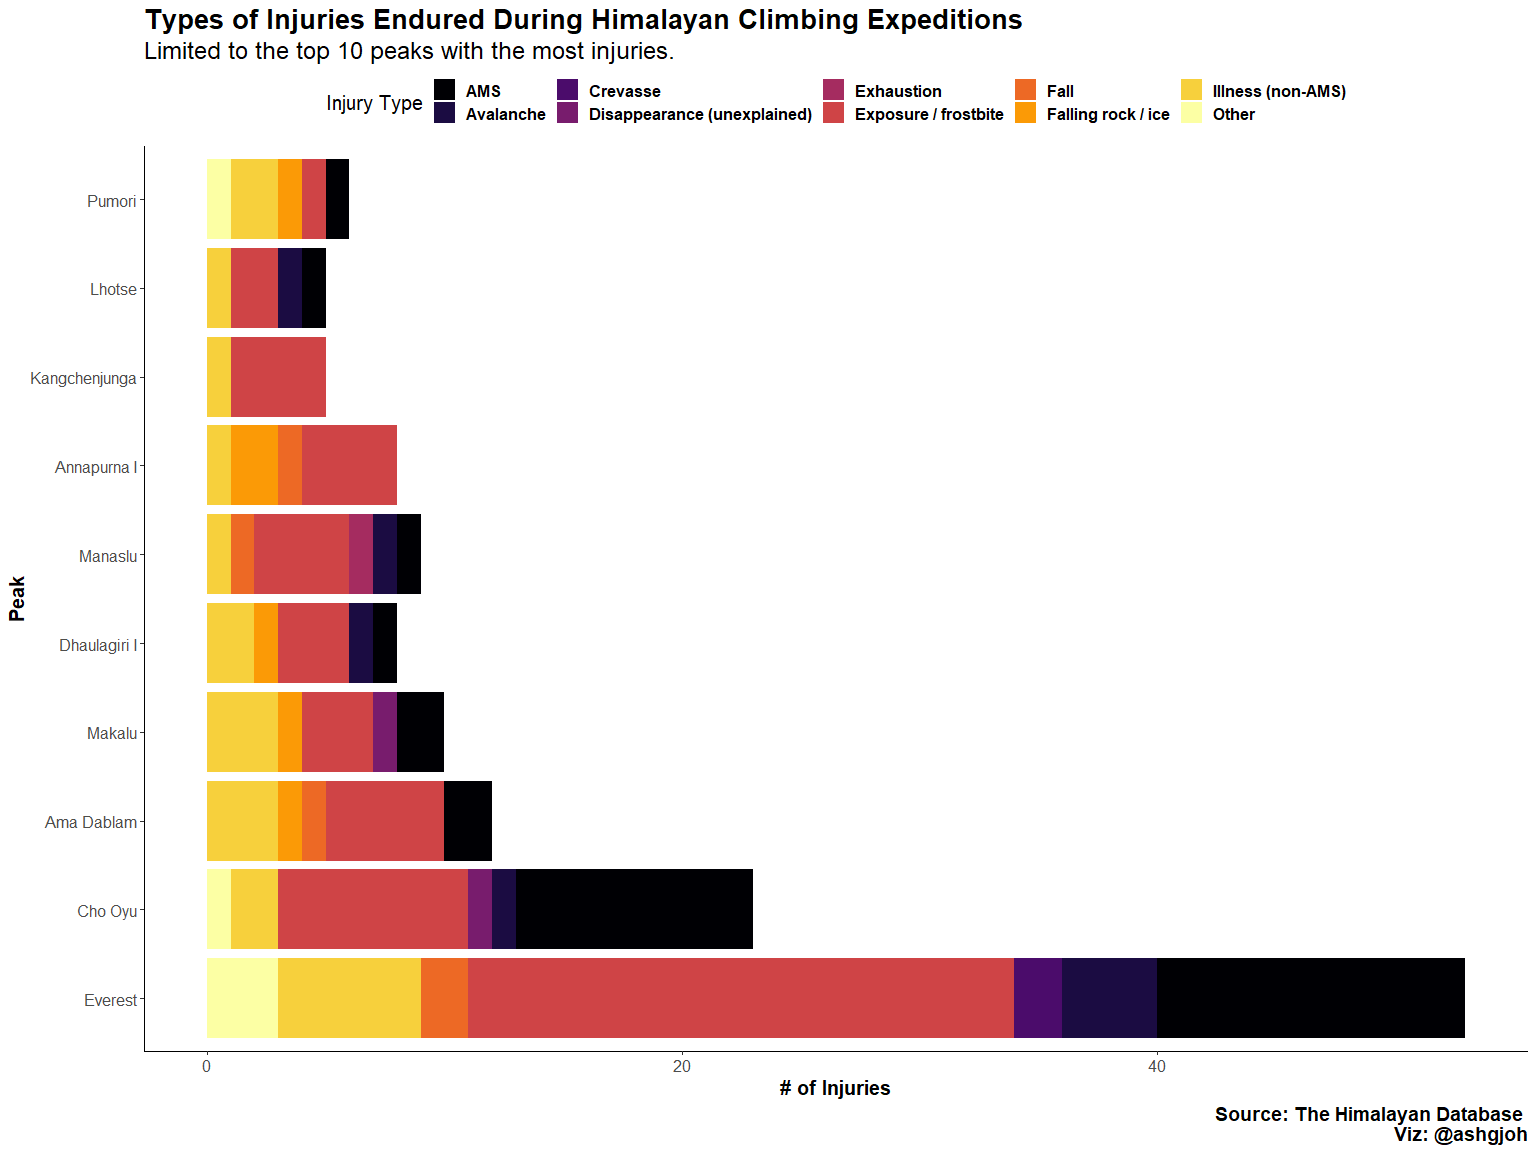
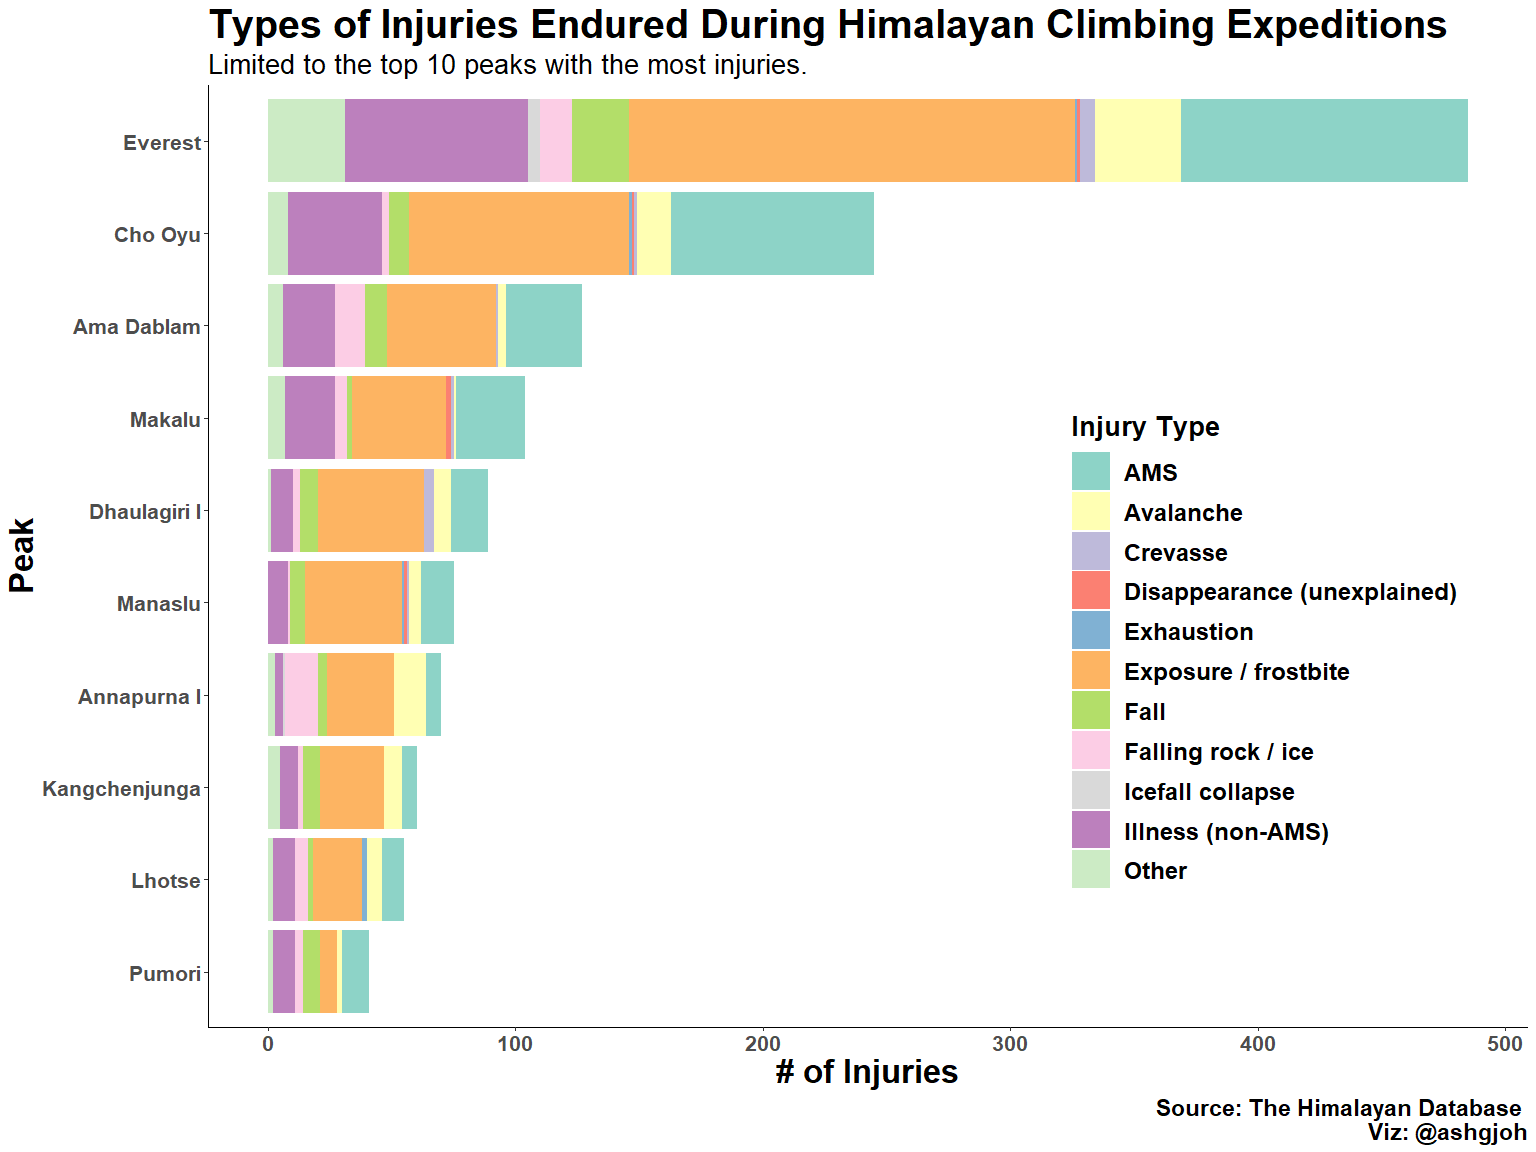
Finalized figure for tidy tuesday submission.

diff --git a/2020_Week39/200922_tidytuesday.md b/2020_Week39/200922_tidytuesday.md
@@ -8,7 +8,7 @@ Ashlyn Johnson
 ``` r
 library(tidyverse)
 library(tidytuesdayR)
-library(viridis)
+library(RColorBrewer)
 ```
 
 ## Session Information
@@ -24,79 +24,72 @@ tuesday](https://github.com/rfordatascience/tidytuesday/blob/master/data/2020/20
 
 ``` r
 tuesdata <- tidytuesdayR::tt_load(2020, week = 39)
+## --- Compiling #TidyTuesday Information for 2020-09-22 ----
+## --- There are 3 files available ---
+## --- Starting Download ---
+## 
+##  Downloading file 1 of 3: `peaks.csv`
+##  Downloading file 2 of 3: `members.csv`
+##  Downloading file 3 of 3: `expeditions.csv`
+## --- Download complete ---
+members <- tuesdata$members
 ```
-
-    ## --- Compiling #TidyTuesday Information for 2020-09-22 ----
-
-    ## --- There are 3 files available ---
-
-    ## --- Starting Download ---
-
-    ## 
-    ##  Downloading file 1 of 3: `peaks.csv`
-    ##  Downloading file 2 of 3: `members.csv`
-    ##  Downloading file 3 of 3: `expeditions.csv`
-
-    ## --- Download complete ---
-
-``` r
-peaks <- tuesdata$peaks
-members <-  tuesdata$members
-expeditions <- tuesdata$expeditions
-```
-
-## Exploration of Data
 
 There are so many questions I can ask from the dataset. And several have
 already been looked at in [Alex Cookson’s blog
 post](https://www.alexcookson.com/post/analyzing-himalayan-peaks-first-ascents/).
 
-### What is the primary cause of injury in climbers?
-
-Note: there’s an issue here. The number of injuries showing up on the
-plot is far less than what shows up when I use the count function.
-Unclear what is going on.
+### What are the most common injuries in climbers?
 
 ``` r
-# creating a vector with peak names that is in descending order by the number of injuries at each peak
+# creating a dataframe with peak names that is sorted by the number of injuries at each peak
 
-members_injury_count <- count(members %>% 
-        filter(injured == TRUE), 
-      vars = peak_name) %>% 
-  arrange(desc(n))
+members_injury_count <- count(members %>%
+  filter(injured == TRUE),
+vars = peak_name
+) %>%
+  arrange(n)
 
-# creating a plot that shows the types of injuries at the top 10 peaks for injuries 
+# creating a dataframe that shows the types of injuries at the top 10 peaks for injuries
 
-ggplot(members %>% 
-         filter(injured == TRUE) %>%  # filter for injuries 
-         mutate(peak_name = factor(peak_name, levels = members_injury_count$vars, ordered = TRUE)) %>%  # mutate peak_name into a factor
-         filter(peak_name == members_injury_count$vars[1:10])) + # filter for only entries that contain the one of the top 10 injury peak names
-  geom_bar(aes(x = peak_name, fill = injury_type)) + # will fill the bars in by the type of injury
-  scale_fill_viridis(option = "inferno", discrete = TRUE) + 
-  coord_flip() + 
-  labs( fill = "Injury Type", 
-        title = "Types of Injuries Endured During Himalayan Climbing Expeditions",
-        subtitle = "Limited to the top 10 peaks with the most injuries.",
-        caption = "Source: The Himalayan Database \n Viz: @ashgjoh") + 
-  xlab("Peak") + 
+members_injuries <- members %>%
+  filter(injured == TRUE) %>% # filter for injuries
+  mutate(peak_name = factor(peak_name, levels = members_injury_count$vars, ordered = TRUE)) %>% # change peak_name variable into a factor
+  filter(peak_name %in% tail(members_injury_count$vars, 10)) %>% # filter for top 10 peaks with the most recorded injuries
+  select(c(peak_name, injured, injury_type)) %>% # pulling only the columns that I'll need for my visualization
+  drop_na() # removing the one na value because not useful for the question we're asking
+
+# making the graph!
+
+ggplot(members_injuries) +
+  geom_bar(aes(
+    x = peak_name,
+    fill = injury_type
+  )) + # will fill the bars in by the type of injury
+  scale_fill_brewer(palette = "Set3") +
+  coord_flip() +
+  labs(
+    fill = "Injury Type",
+    title = "Types of Injuries Endured During Himalayan Climbing Expeditions",
+    subtitle = "Limited to the top 10 peaks with the most injuries.",
+    caption = "Source: The Himalayan Database \n Viz: @ashgjoh"
+  ) +
+  xlab("Peak") +
   ylab("# of Injuries") +
-  theme_classic() + 
-  theme(plot.title = element_text(size = 20, face = "bold"), 
-        plot.subtitle = element_text(size = 18),
-        axis.title.x = element_text(size = 15, face = "bold"), 
-        axis.title.y = element_text(size = 15, face = "bold"), 
-        axis.text.x = element_text(size = 12),
-        axis.text.y = element_text(size = 12), 
-        legend.title = element_text(size = 15), 
-        legend.text = element_text(size = 12, face = "bold"),
-        plot.caption = element_text(size = 14, face = "bold"),
-        legend.position = "top")
+  theme_classic() +
+  theme(
+    plot.title = element_text(size = 30, face = "bold"),
+    plot.subtitle = element_text(size = 20),
+    axis.title.x = element_text(size = 25, face = "bold"),
+    axis.title.y = element_text(size = 25, face = "bold"),
+    axis.text.x = element_text(size = 16, face = "bold"),
+    axis.text.y = element_text(size = 16, face = "bold"),
+    legend.title = element_text(size = 20, face = "bold"),
+    legend.text = element_text(size = 18, face = "bold"),
+    plot.caption = element_text(size = 17, face = "bold"),
+    legend.position = c(0.8, 0.4),
+    legend.key.size = unit(30, "pt")
+  )
 ```
-
-    ## Warning in `==.default`(peak_name, members_injury_count$vars[1:10]): longer
-    ## object length is not a multiple of shorter object length
-
-    ## Warning in is.na(e1) | is.na(e2): longer object length is not a multiple of
-    ## shorter object length
 
 ![](200922_tidytuesday_files/figure-gfm/injury%20figure-1.png)<!-- -->
